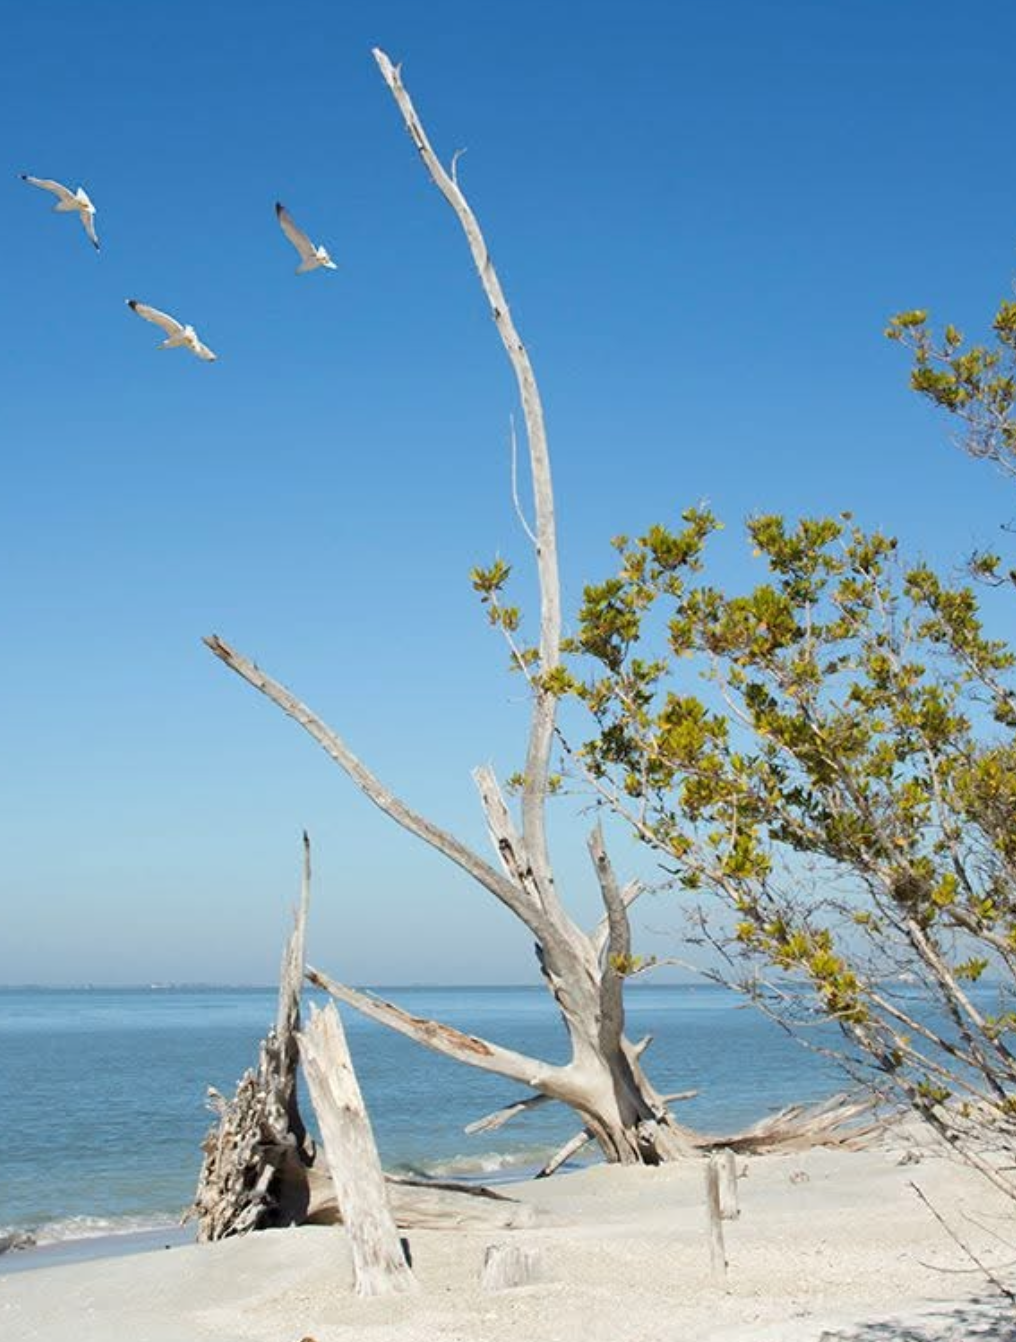
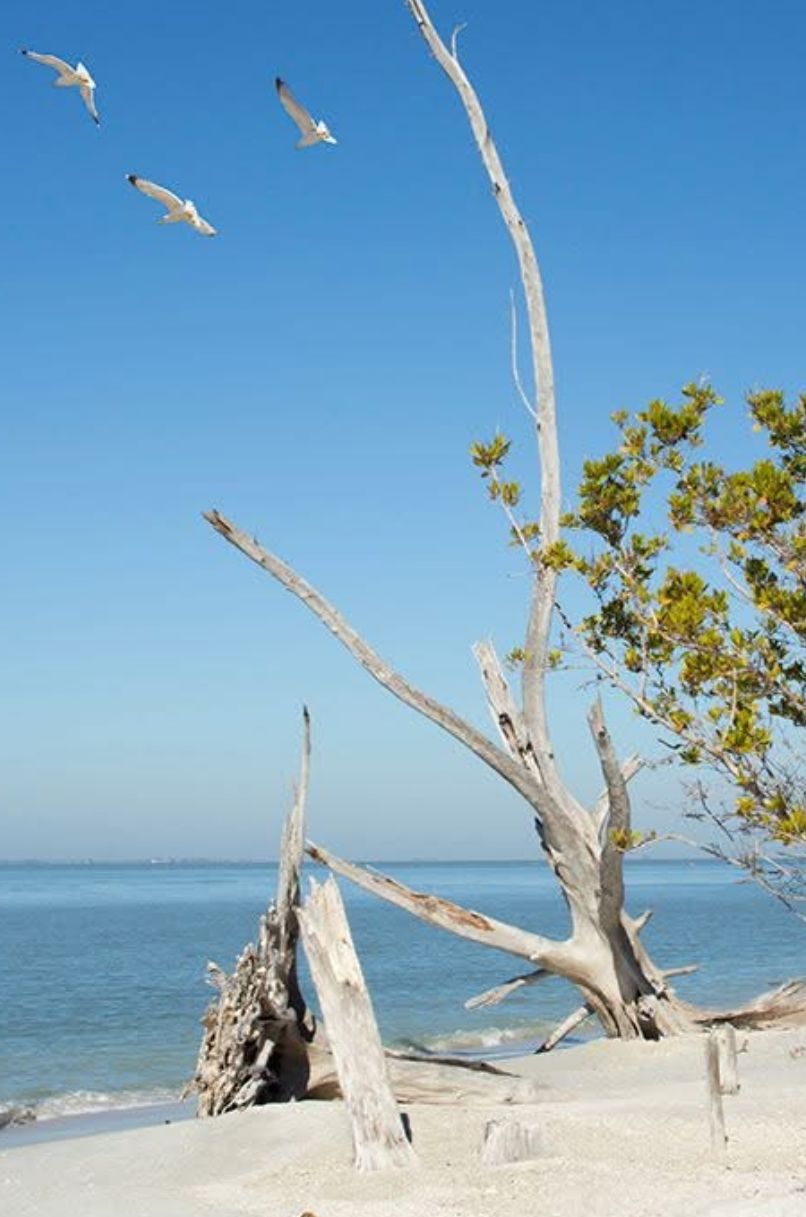
Image crop and resizing for services background

diff --git a/stylesheets/style-general.css b/stylesheets/style-general.css
@@ -403,11 +403,11 @@ div.gallery-description {
 
 div.services-body {
     background-image: url("../images/test_background.png");
-    background-color: rgba(255,255,255,0.8) !important;
+    background-color: rgba(255,255,255, 0.8) !important;
     background-blend-mode: lighten;
     margin-top: -100px;
     padding-top: 100px;
-    background-size: 100%;
+    background-size: 110%;
 }
 div.services-list {
     margin-bottom: 70px;
